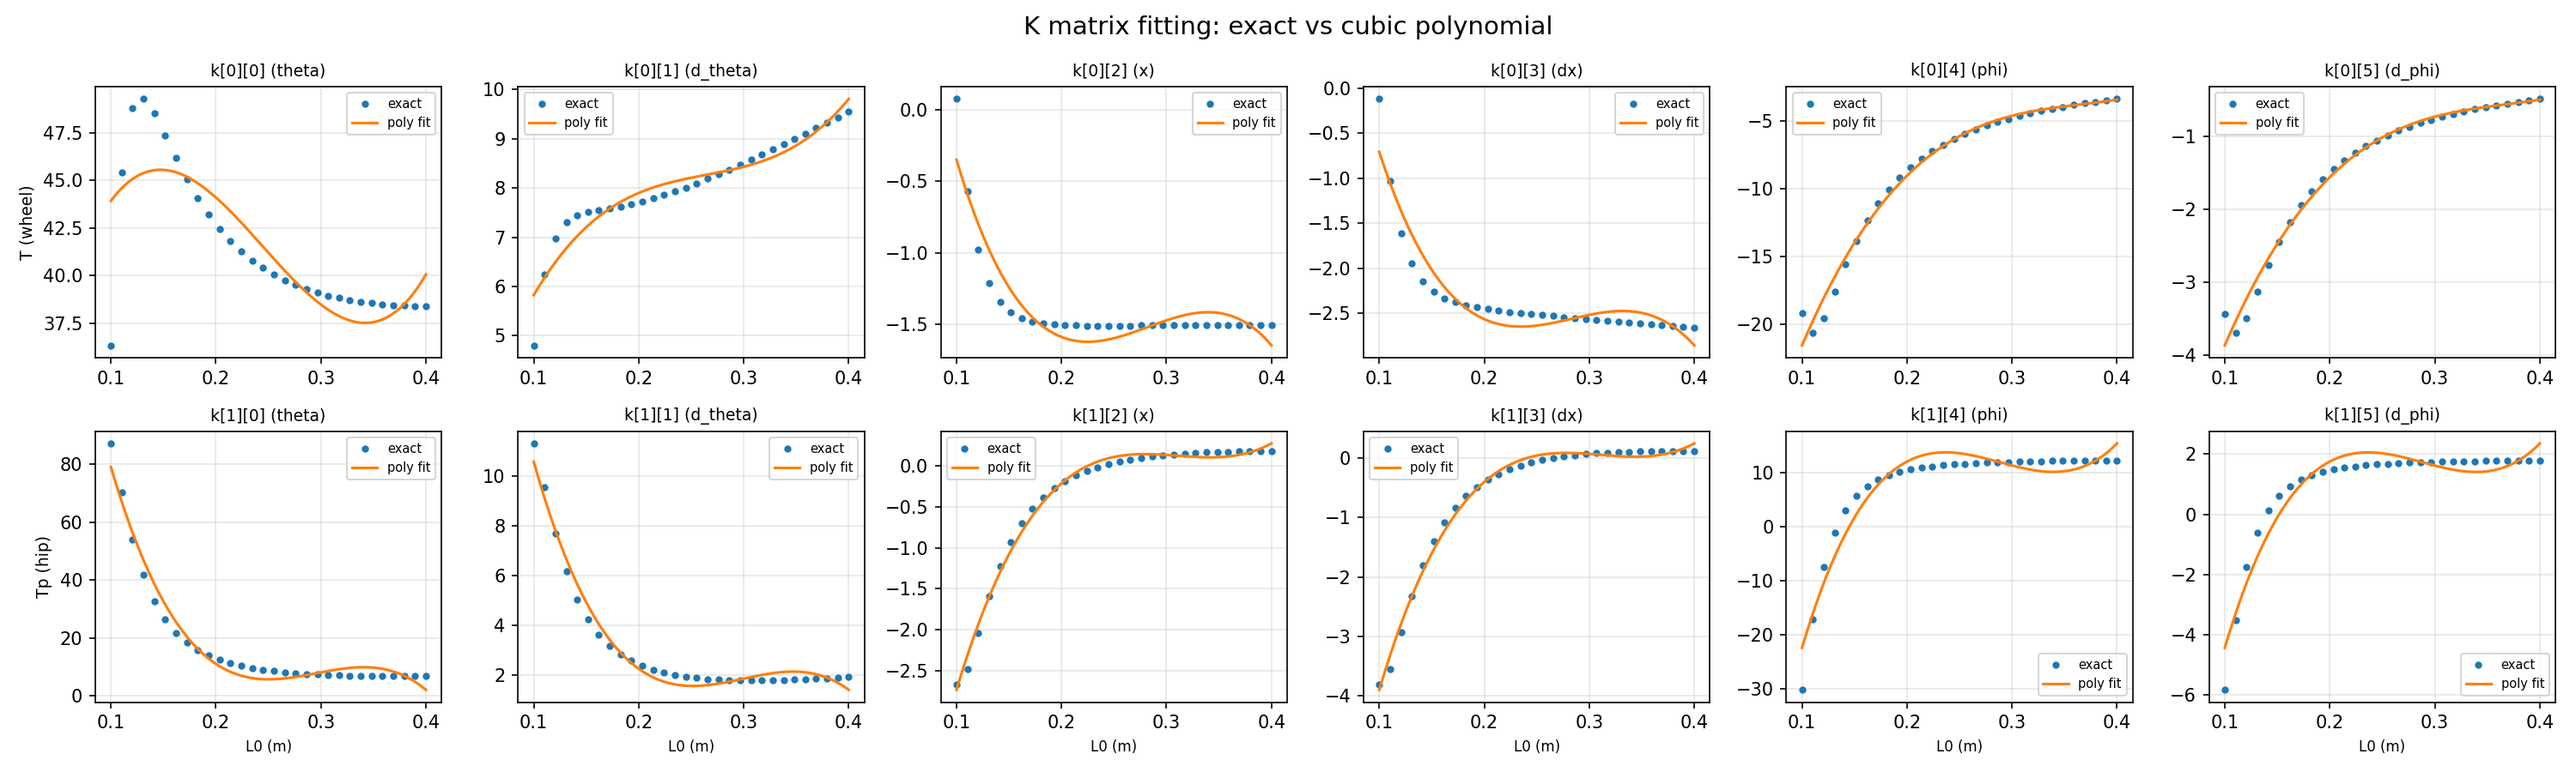
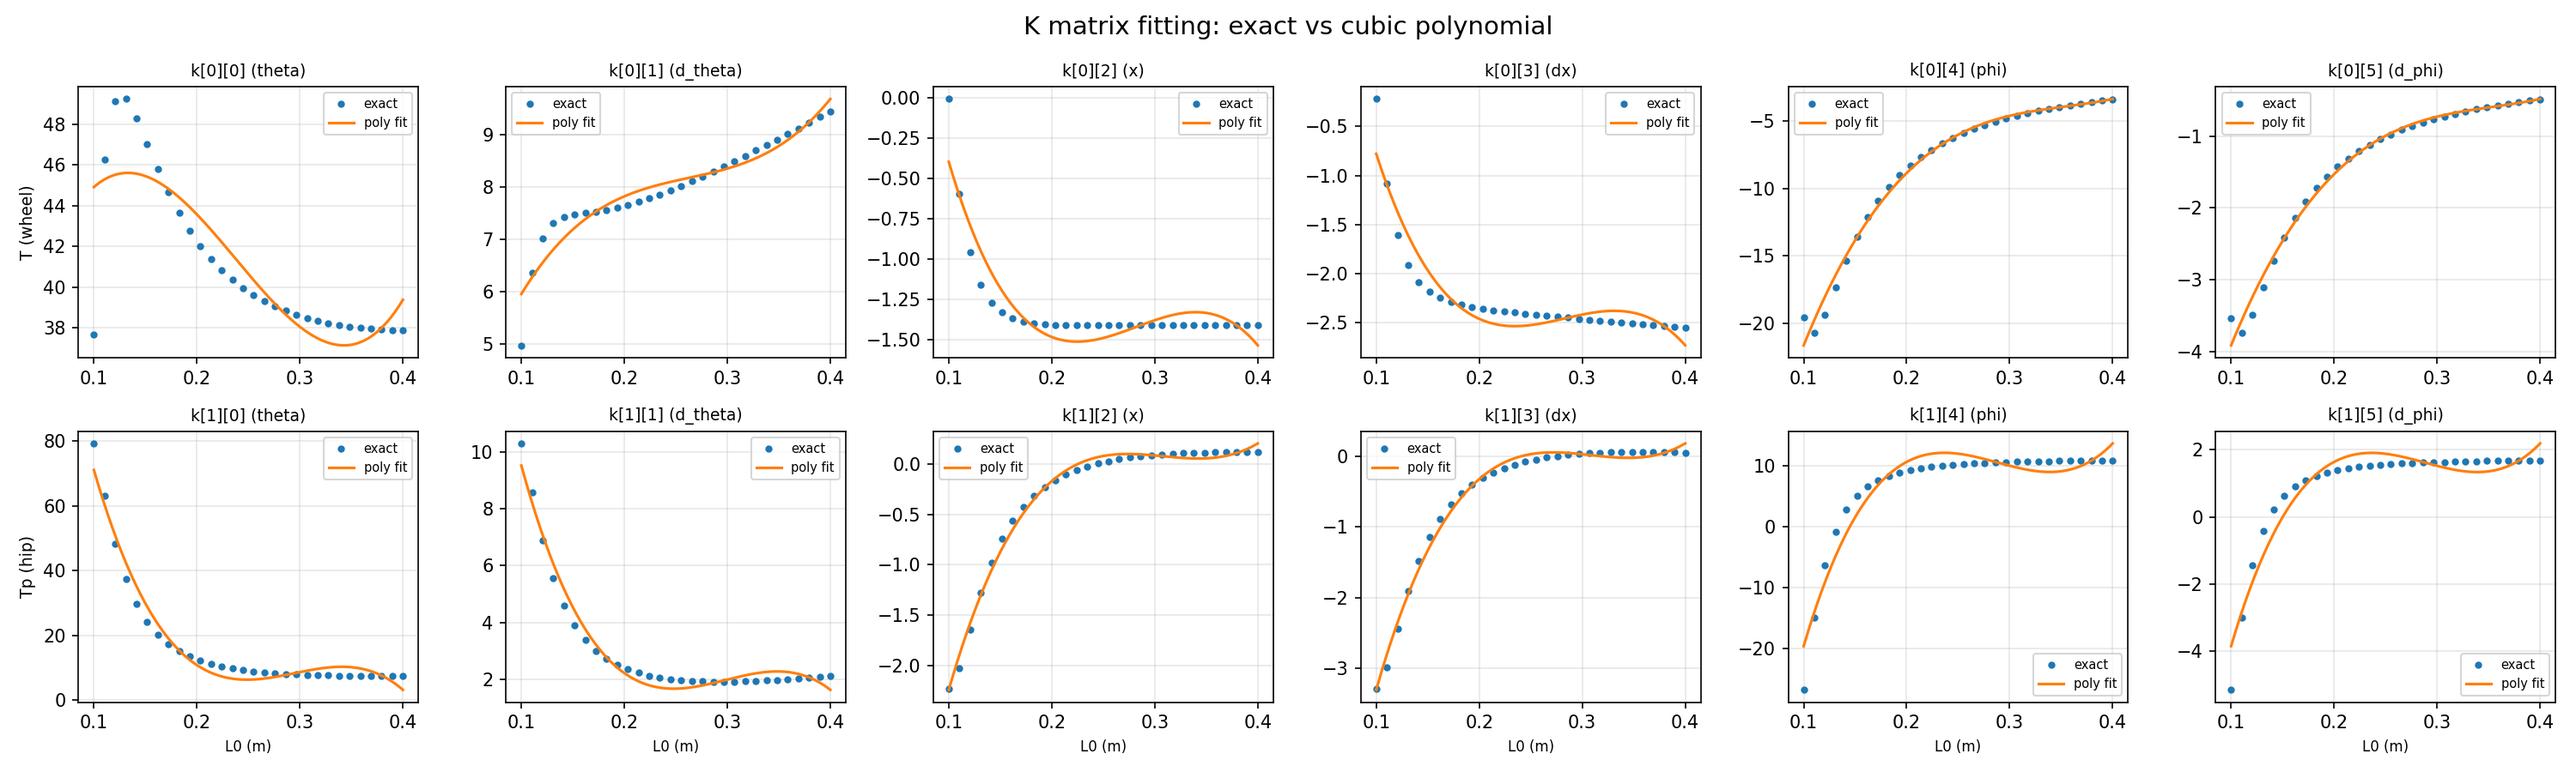
调参：调整R权重、腿长PID和L0目标值
- R权重改为[250, 100]
- 腿长PID增大P=3000, D=2000
- L0目标值改为0.15m
- 重新生成K矩阵和拟合曲线

diff --git a/LQRController.py b/LQRController.py
@@ -71,7 +71,7 @@ class LQRBalanceController:
         print(f"[LQR] 加载二次多项式系数, L0 ∈ [{L0_range['min']:.2f}, {L0_range['max']:.2f}]m")
 
         # 目标值
-        self.L0_target = 0.18
+        self.L0_target = 0.15
         self.x_target = 0.0
         self.v_target = 0.0
 
@@ -79,8 +79,8 @@ class LQRBalanceController:
         self.state = StateEstimator()
 
         # 腿长 PID
-        self.pid_L0_r = PID(p=5000.0, i=20.0, d=3000.0, integral_limit=50.0, output_limit=300.0)
-        self.pid_L0_l = PID(p=5000.0, i=20.0, d=3000.0, integral_limit=50.0, output_limit=300.0)
+        self.pid_L0_r = PID(p=3000.0, i=10.0, d=2000.0, integral_limit=50.0, output_limit=300.0)
+        self.pid_L0_l = PID(p=3000.0, i=10.0, d=2000.0, integral_limit=50.0, output_limit=300.0)
 
         # 监控
         self.T = 0.0

diff --git a/calc_lqr_k.py b/calc_lqr_k.py
@@ -28,7 +28,7 @@ DEFAULT_ROBOT_PARAMS = {
 }
 
 DEFAULT_Q = [100.0, 1.0, 500.0, 100.0, 5000.0, 1.0]
-DEFAULT_R = [220.0, 70.0]
+DEFAULT_R = [250.0, 100.0]
 
 DEFAULT_L0_RANGE = {"min": 0.10, "max": 0.40, "n_points": 30}
 
